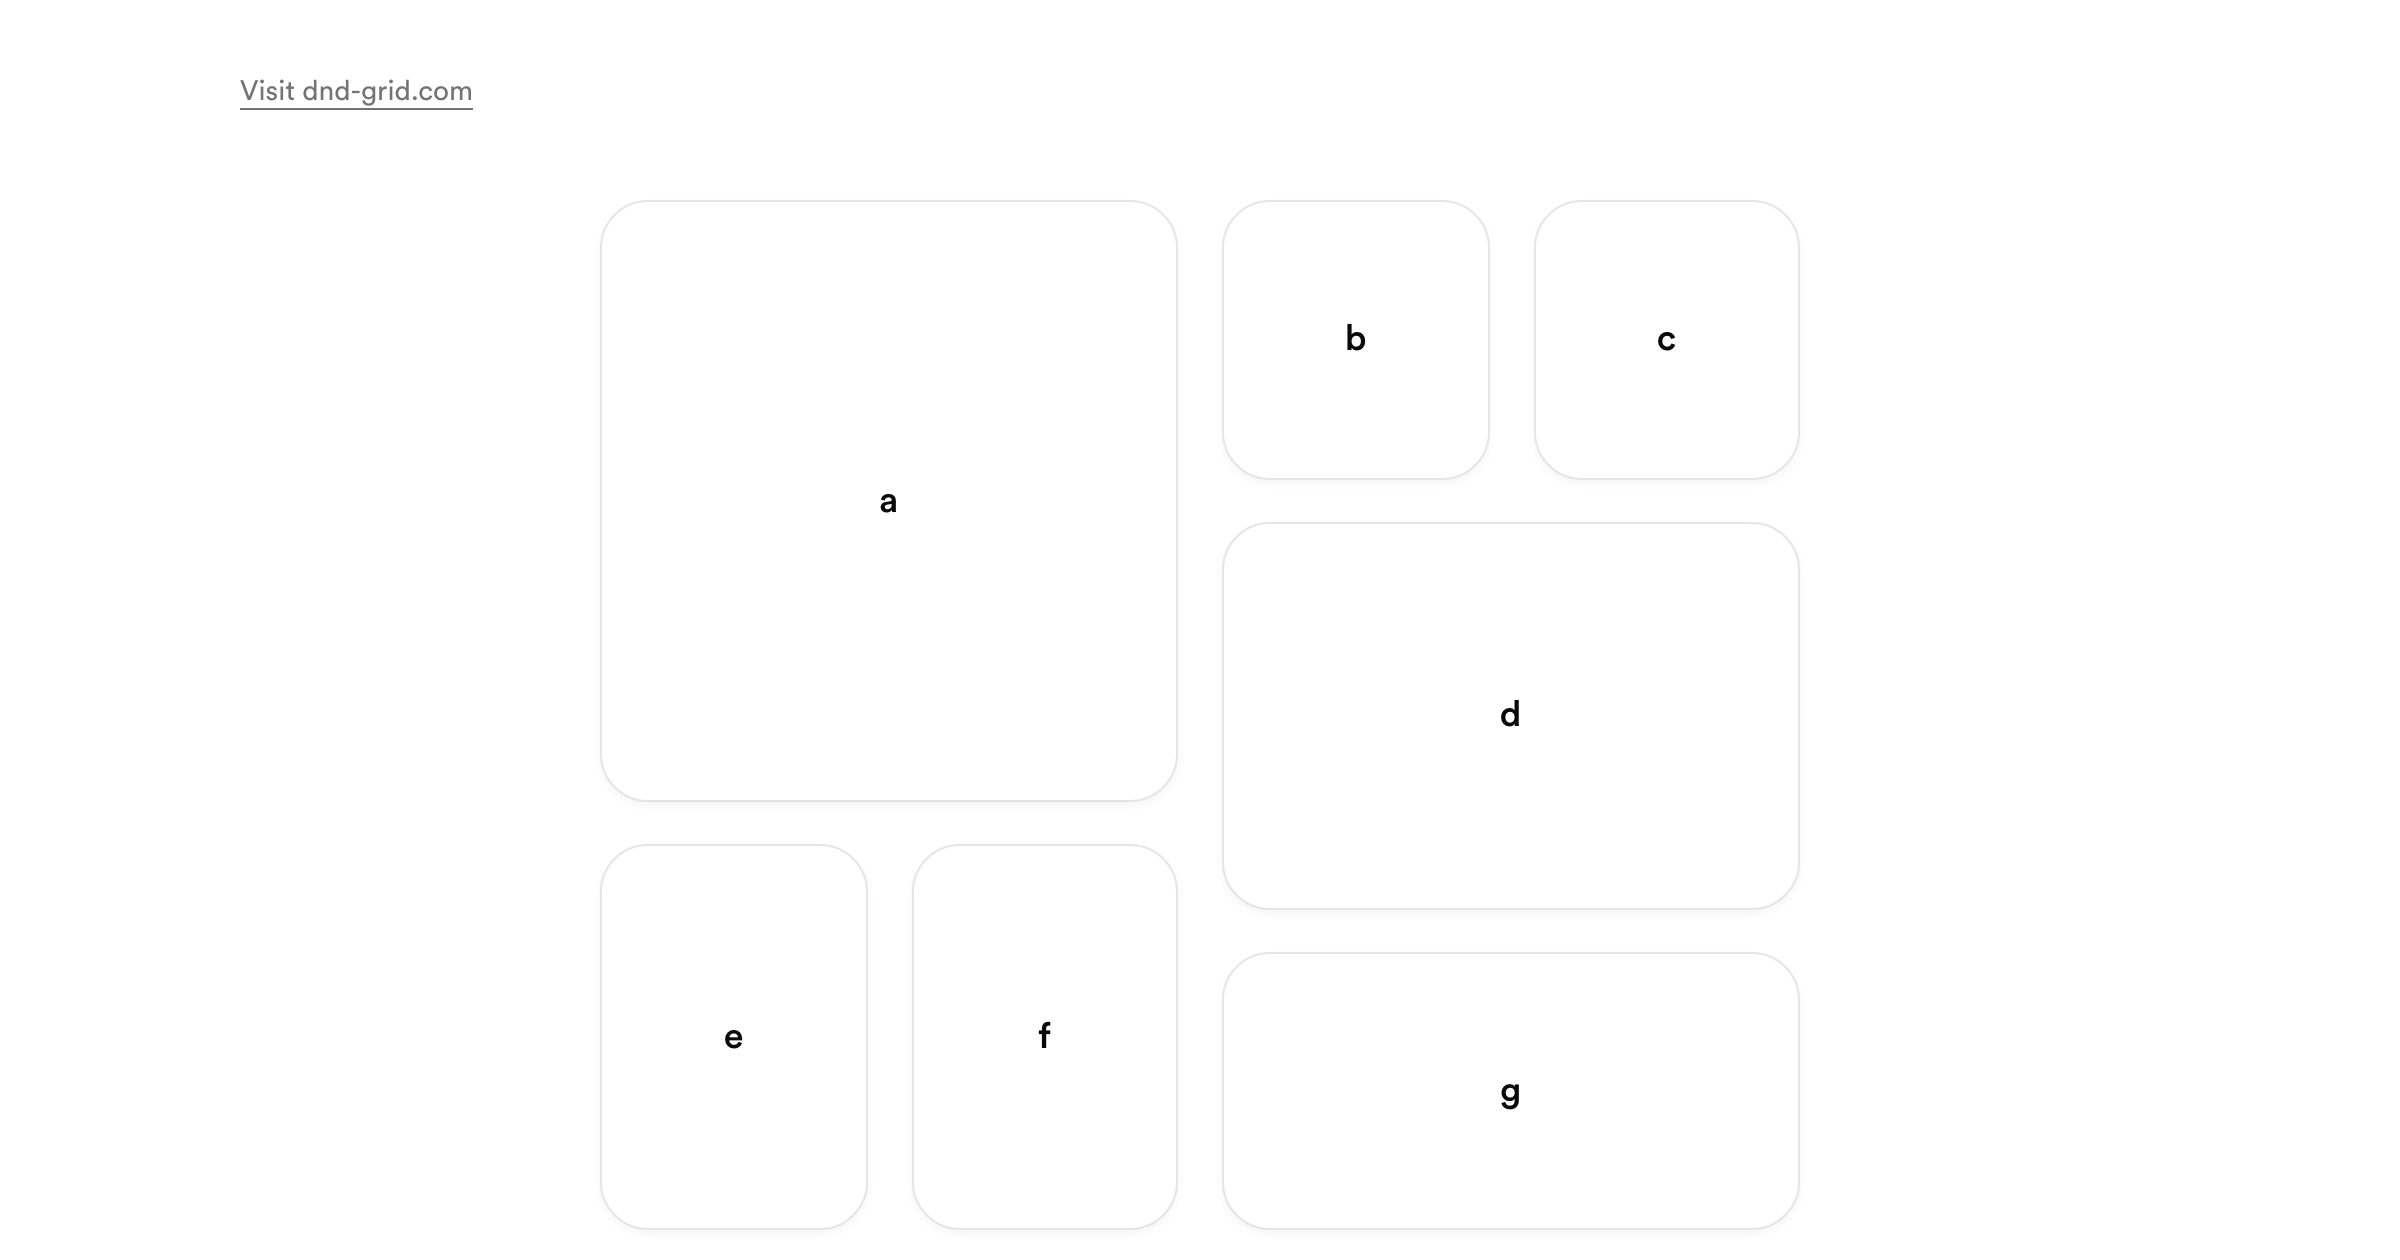
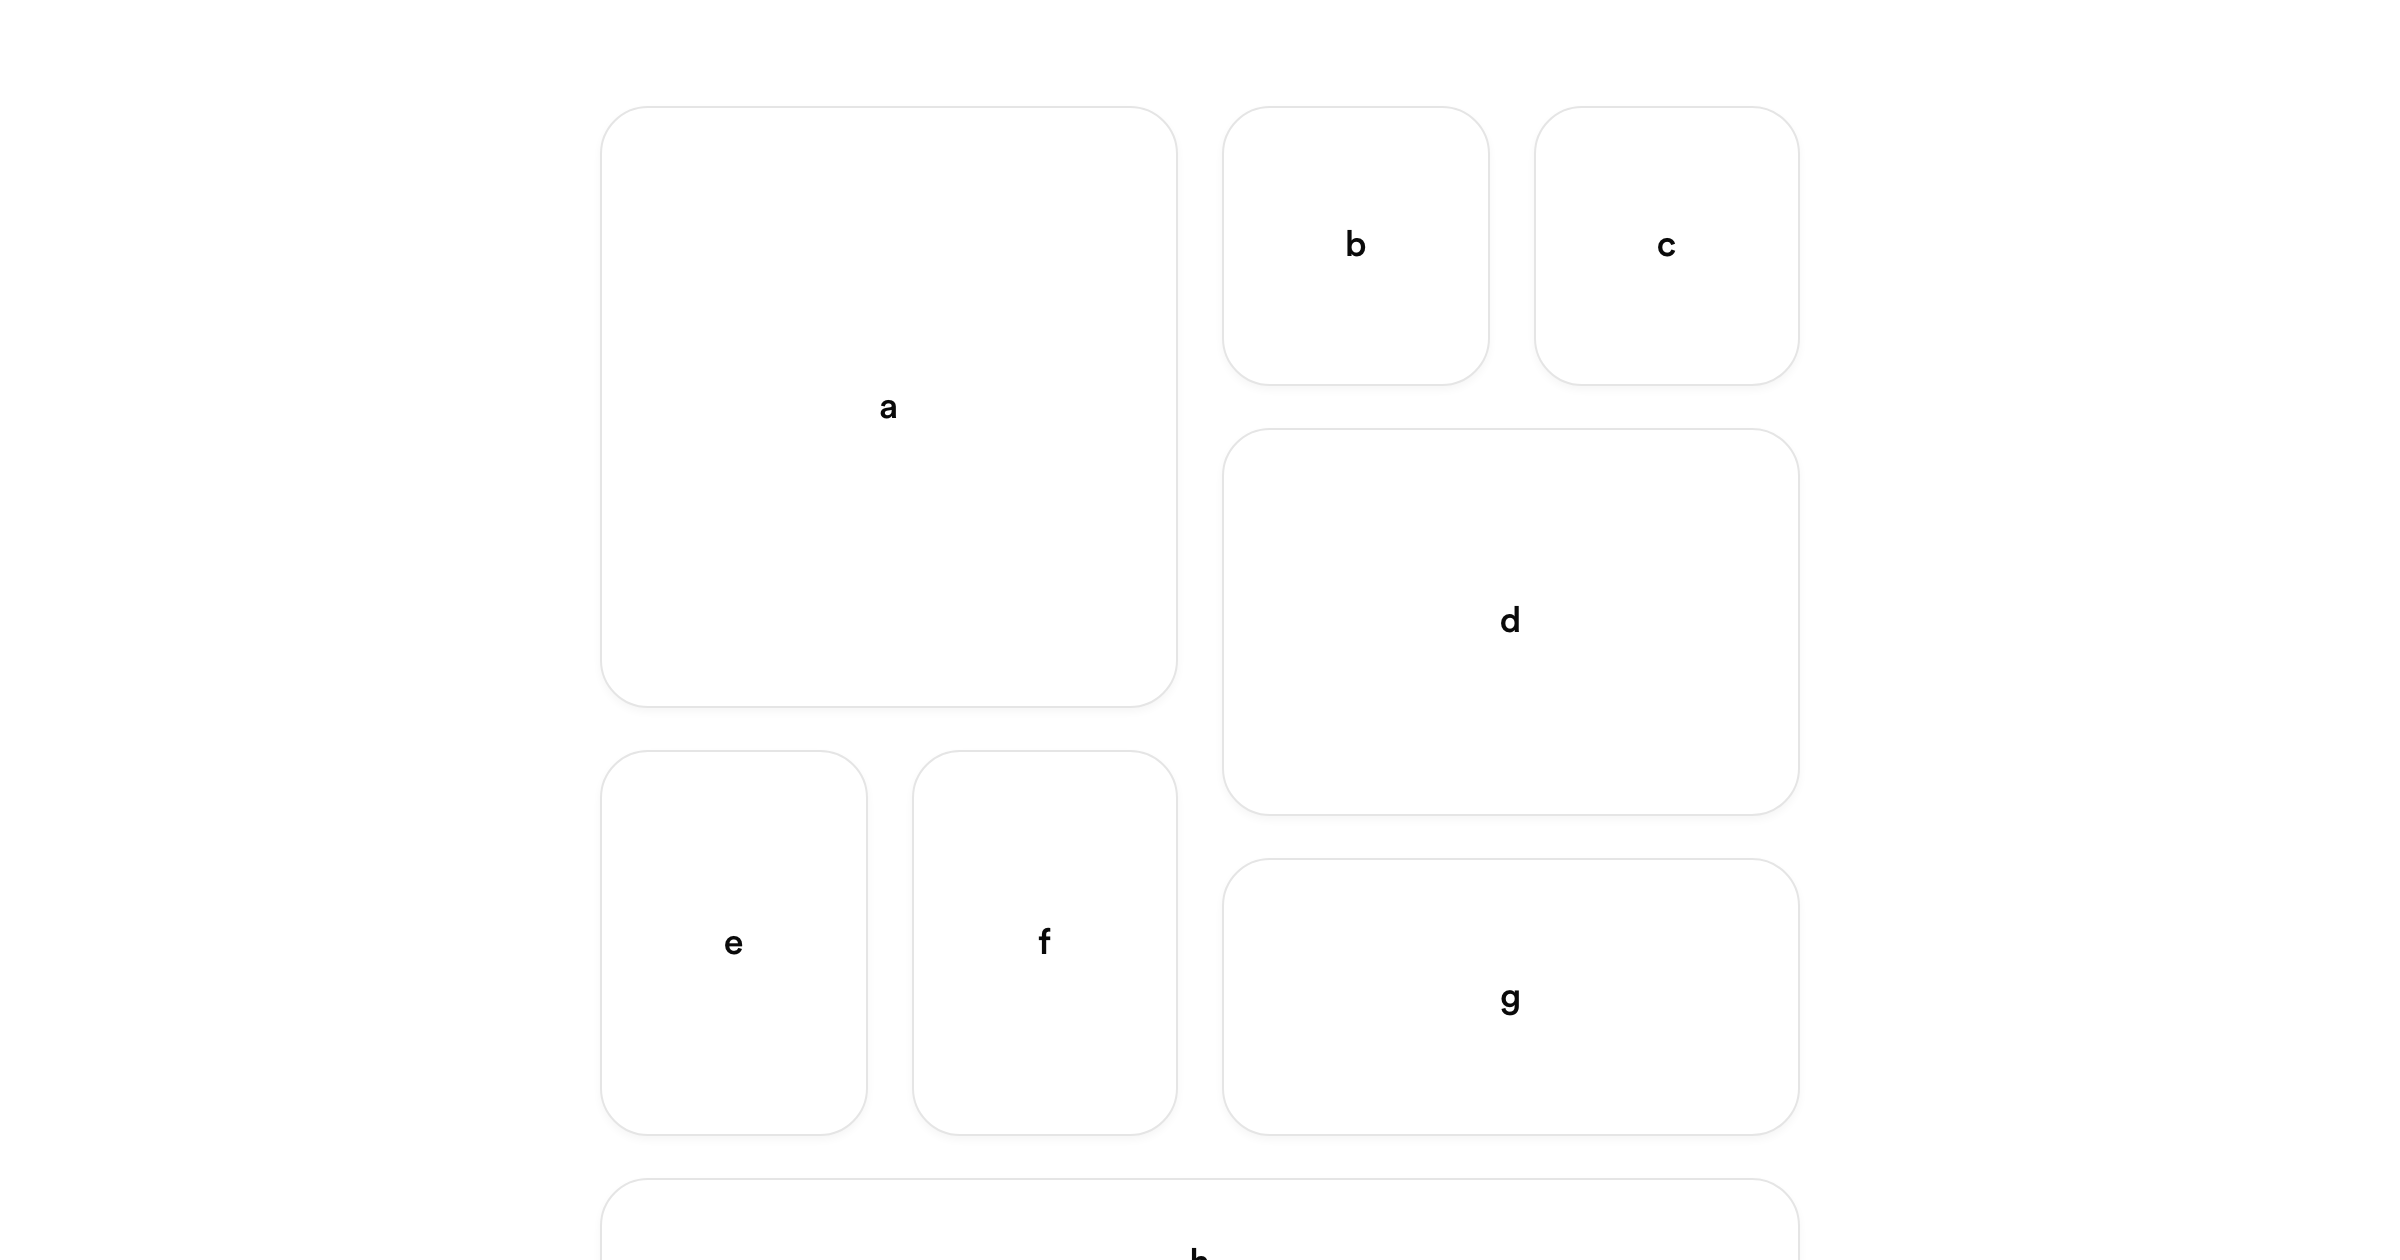
Hide demo attribution links in OG screenshots
In ?hideHeader mode, also hide the .link attribution/reference links
(e.g. "Original concept by...", "Visit dnd-grid.com") so only the demo
shows. Regenerate the five affected images.

Changed region(s): [[0.0938, 0.0619, 0.1875, 0.0929], [0.625, 0.7738, 0.6562, 0.8048]]

diff --git a/components/ui/header.tsx b/components/ui/header.tsx
@@ -21,7 +21,8 @@ export const Header = ({ id, className }: Props) => {
   }, []);
 
   if (hidden) {
-    return null;
+    // Also drop attribution/reference links so only the demo remains
+    return <style>{".link{display:none!important}"}</style>;
   }
 
   return (
